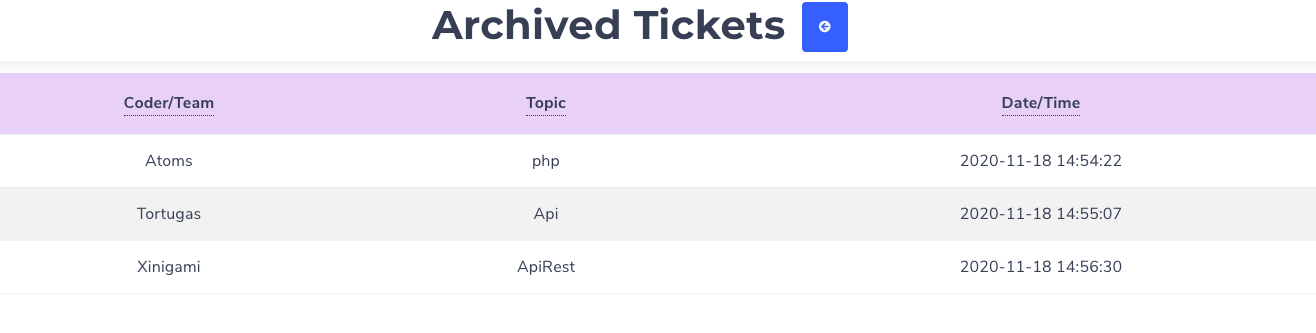
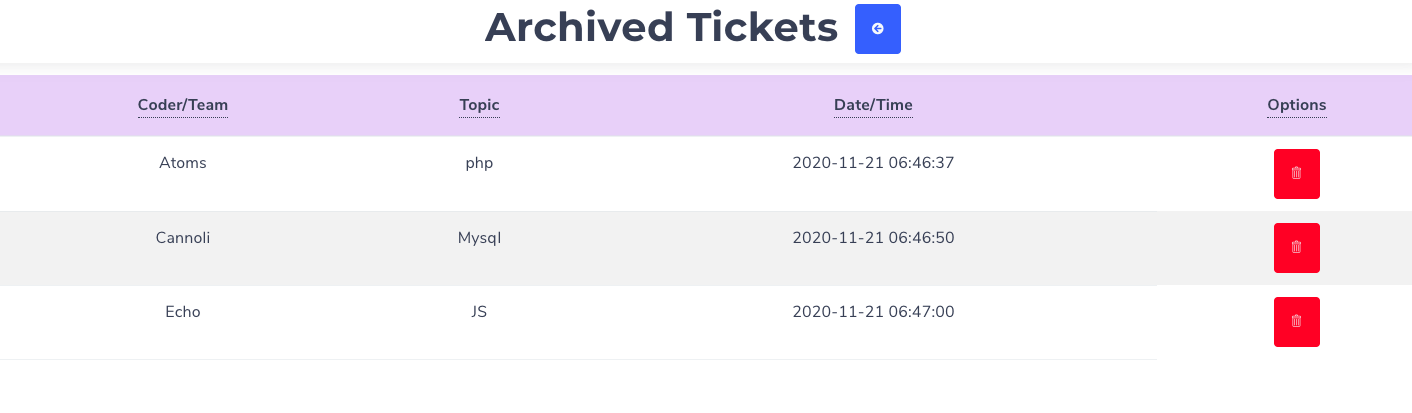
add delete button to the archived ticket list

diff --git a/src/views/doneTicketList.php b/src/views/doneTicketList.php
@@ -15,6 +15,7 @@
           <th><abbr title="Name of the coder or the team">Coder/Team</abbr></th>
           <th><abbr title="Kind of topic">Topic</abbr></th>
           <th><abbr title="When the ticket was created">Date/Time</abbr></th>
+          <th><abbr title="Things you can do with this ticket">Options</abbr></th>
         </tr>
         </tr>
       </thead>
@@ -26,6 +27,9 @@
                 <td>{$ticket->getCoderTeam()}</td>
                 <td>{$ticket->getTopic()}</td>
                 <td>{$ticket->getDateTime()}</td>
+                <td class='btn-group u-flex-row'>
+                  <a class='btn btn-danger' href='?action=delete&id={$ticket->getId()}'><i class='lnr lnr-trash'></i></a>
+                </td>
             </tr>
             ";
         } ?>
